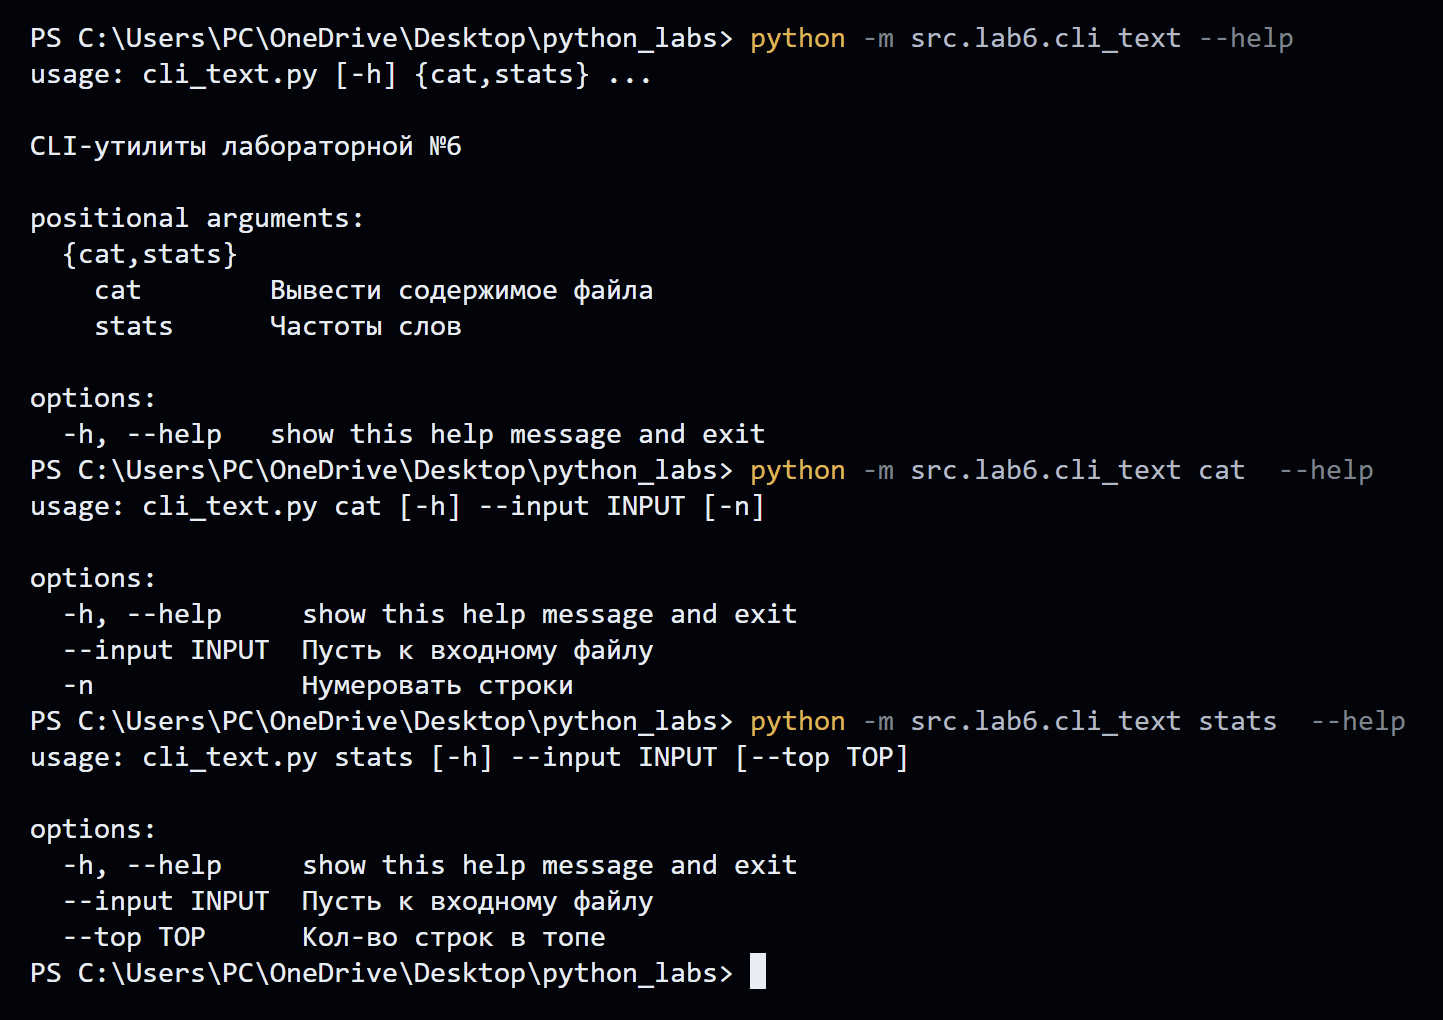
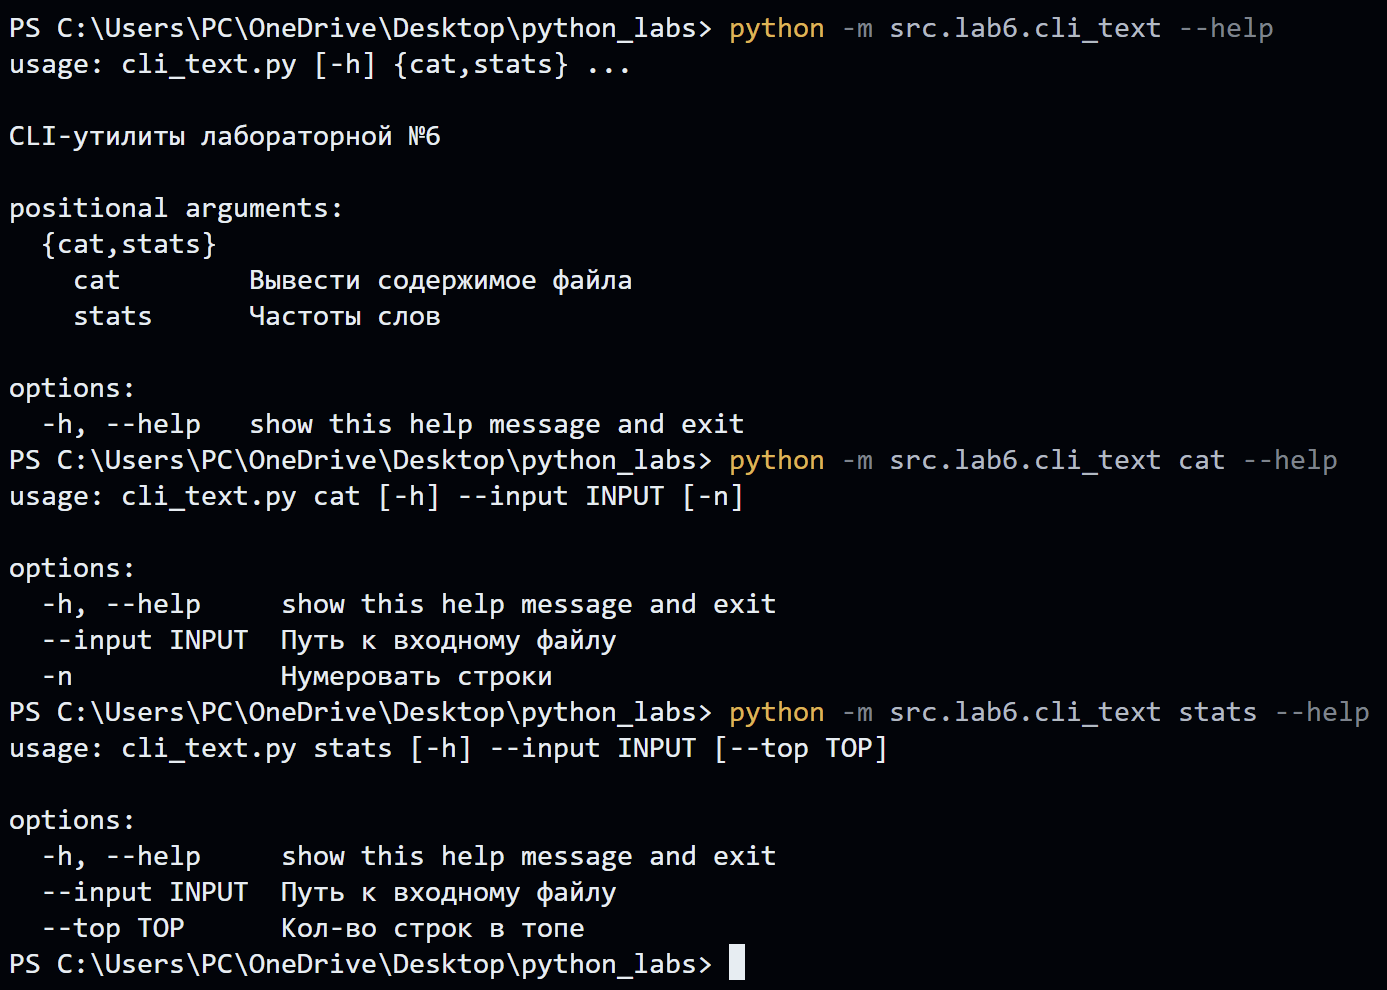
443

diff --git a/src/lab6/cli_text.py b/src/lab6/cli_text.py
@@ -6,11 +6,11 @@ def main():
     subparsers = parser.add_subparsers(dest="command") # в command записывается название команды (cat)
 
     cat_parser = subparsers.add_parser("cat", help="Вывести содержимое файла")
-    cat_parser.add_argument("--input", required=True, help='Пусть к входному файлу')
+    cat_parser.add_argument("--input", required=True, help='Путь к входному файлу')
     cat_parser.add_argument("-n", action="store_true", help="Нумеровать строки")
 
     stats_parser = subparsers.add_parser("stats", help="Частоты слов")
-    stats_parser.add_argument("--input", required=True, help='Пусть к входному файлу')
+    stats_parser.add_argument("--input", required=True, help='Путь к входному файлу')
     stats_parser.add_argument("--top", type=int, default=5, help='Кол-во строк в топе')
 
     args = parser.parse_args()

diff --git a/src/lab6/README.md b/src/lab6/README.md
@@ -108,7 +108,7 @@ def main():
 
     args = parser.parse_args()
 ```
-## Подкоманды json2csv,csv2json,csv2json
+## Подкоманды json2csv, csv2json, csv2json
 ``` python 
 try:
         if args.cmd=='json2csv':
